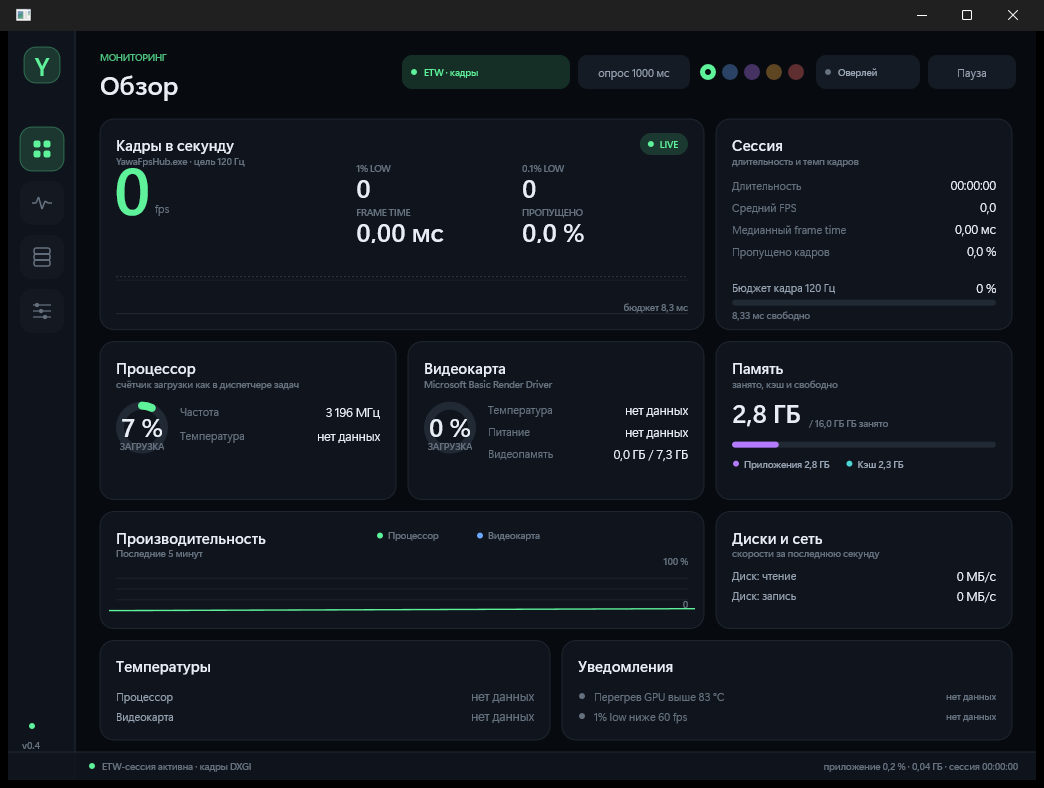
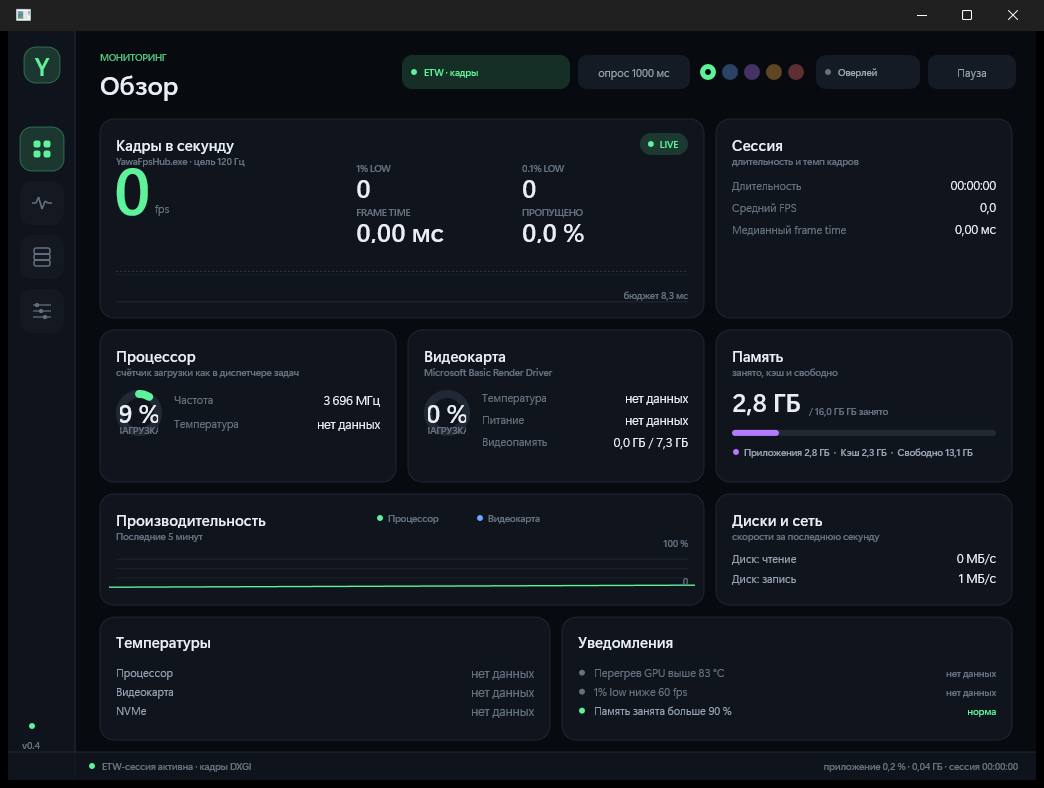
UI: сетка дисков и сети, строки сессии и источники под заголовком

diff --git a/app/ui/dashboard_view.cpp b/app/ui/dashboard_view.cpp
@@ -170,11 +170,11 @@ void drawSessionCard(Renderer& renderer, const AppModel& model, const Theme& the
     };
 
     for (const auto& [label, value] : rows) {
-        if (rowTop + 16.0f > inner.bottom - 44.0f) {
+        if (rowTop + 16.0f > inner.bottom - 38.0f) {
             return;
         }
         drawLabelValue(renderer, Rect{ inner.left, rowTop, inner.right, rowTop + 16.0f }, label, value, theme);
-        rowTop += 22.0f;
+        rowTop += 21.0f;
     }
 
     const double budgetMs = 1000.0 / static_cast<double>(std::max(model.settings.capture.targetHz, 30));
@@ -398,22 +398,30 @@ void drawDiskNetCard(Renderer& renderer, const AppModel& model, const Theme& the
         return;
     }
 
-    const std::array<MetricId, 4> ids{ MetricId::DiskRead, MetricId::DiskWrite, MetricId::NetDown, MetricId::NetUp };
-    float rowTop = top + 4.0f;
-    const float step = std::max(20.0f, (inner.bottom - rowTop) / 4.0f);
+    struct Cell {
+        std::wstring_view label;
+        MetricId id;
+    };
 
-    for (MetricId id : ids) {
-        if (rowTop + 16.0f > inner.bottom) {
+    const std::array<Cell, 4> cells{ Cell{ L"Диск: чтение", MetricId::DiskRead },
+        { L"Диск: запись", MetricId::DiskWrite }, { L"Сеть: входящий", MetricId::NetDown },
+        { L"Сеть: исходящий", MetricId::NetUp } };
+
+    const float cellWidth = (inner.width() - 12.0f) / 2.0f;
+    float rowTop = top + 2.0f;
+
+    for (std::size_t index = 0; index < cells.size(); ++index) {
+        const float left = inner.left + static_cast<float>(index % 2) * (cellWidth + 12.0f);
+        const float current = rowTop + static_cast<float>(index / 2) * 22.0f;
+        if (current + 18.0f > inner.bottom) {
             break;
         }
-        const MetricInfo& info = metricInfo(id);
-        renderer.text(wideText(info.label), Rect{ inner.left, rowTop, inner.centerX(), rowTop + 16.0f },
-            TextRole::Small, theme.textDim);
-        const bool known = model.store.hasValue(id);
-        renderer.text(known ? wideMetric(id, model.store.value(id)) : L"нет данных",
-            Rect{ inner.centerX(), rowTop, inner.right, rowTop + 16.0f }, TextRole::Body,
+        const bool known = model.store.hasValue(cells[index].id);
+        renderer.text(cells[index].label, Rect{ left, current, left + cellWidth * 0.55f, current + 18.0f },
+            TextRole::Tiny, theme.textDim);
+        renderer.text(known ? wideMetric(cells[index].id, model.store.value(cells[index].id)) : L"—",
+            Rect{ left + cellWidth * 0.5f, current, left + cellWidth, current + 18.0f }, TextRole::Small,
             known ? theme.text : theme.textFaint, TextAlign::Right);
-        rowTop += step;
     }
 }
 
@@ -514,9 +522,9 @@ void drawDashboard(Renderer& renderer, const AppModel& model, const Theme& theme
     const Columns columns{ area };
 
     const float usable = area.height() - kGap * 3.0f;
-    const float first = std::max(170.0f, usable * 0.34f);
-    const float second = std::max(132.0f, usable * 0.26f);
-    const float third = std::max(104.0f, usable * 0.19f);
+    const float first = std::max(168.0f, usable * 0.33f);
+    const float second = std::max(128.0f, usable * 0.245f);
+    const float third = std::max(100.0f, usable * 0.21f);
     const float fourth = std::max(90.0f, usable - first - second - third);
 
     const float row1 = area.top;

diff --git a/app/ui/settings_view.cpp b/app/ui/settings_view.cpp
@@ -250,7 +250,7 @@ void drawSourcesCard(Renderer& renderer, const AppModel& model, const Theme& the
     drawCard(renderer, card, theme);
     const Rect inner = card.inset(kCardPadding);
     const float top = drawCardHeader(renderer, card, L"Источники данных",
-        L"доступность проверяется при запуске, недоступное честно помечается", theme);
+        L"доступность проверяется при запуске, недоступное честно помечается", theme) + 10.0f;
 
     struct Source {
         std::wstring_view name;
@@ -279,7 +279,7 @@ void drawSourcesCard(Renderer& renderer, const AppModel& model, const Theme& the
     for (std::size_t index = 0; index < sources.size(); ++index) {
         const Source& source = sources[index];
         const float left = inner.left + static_cast<float>(index / 3) * (columnWidth + 24.0f);
-        const float rowTop = top + static_cast<float>(index % 3) * 30.0f;
+        const float rowTop = top + static_cast<float>(index % 3) * 28.0f;
         if (rowTop + 30.0f > inner.bottom) {
             break;
         }
